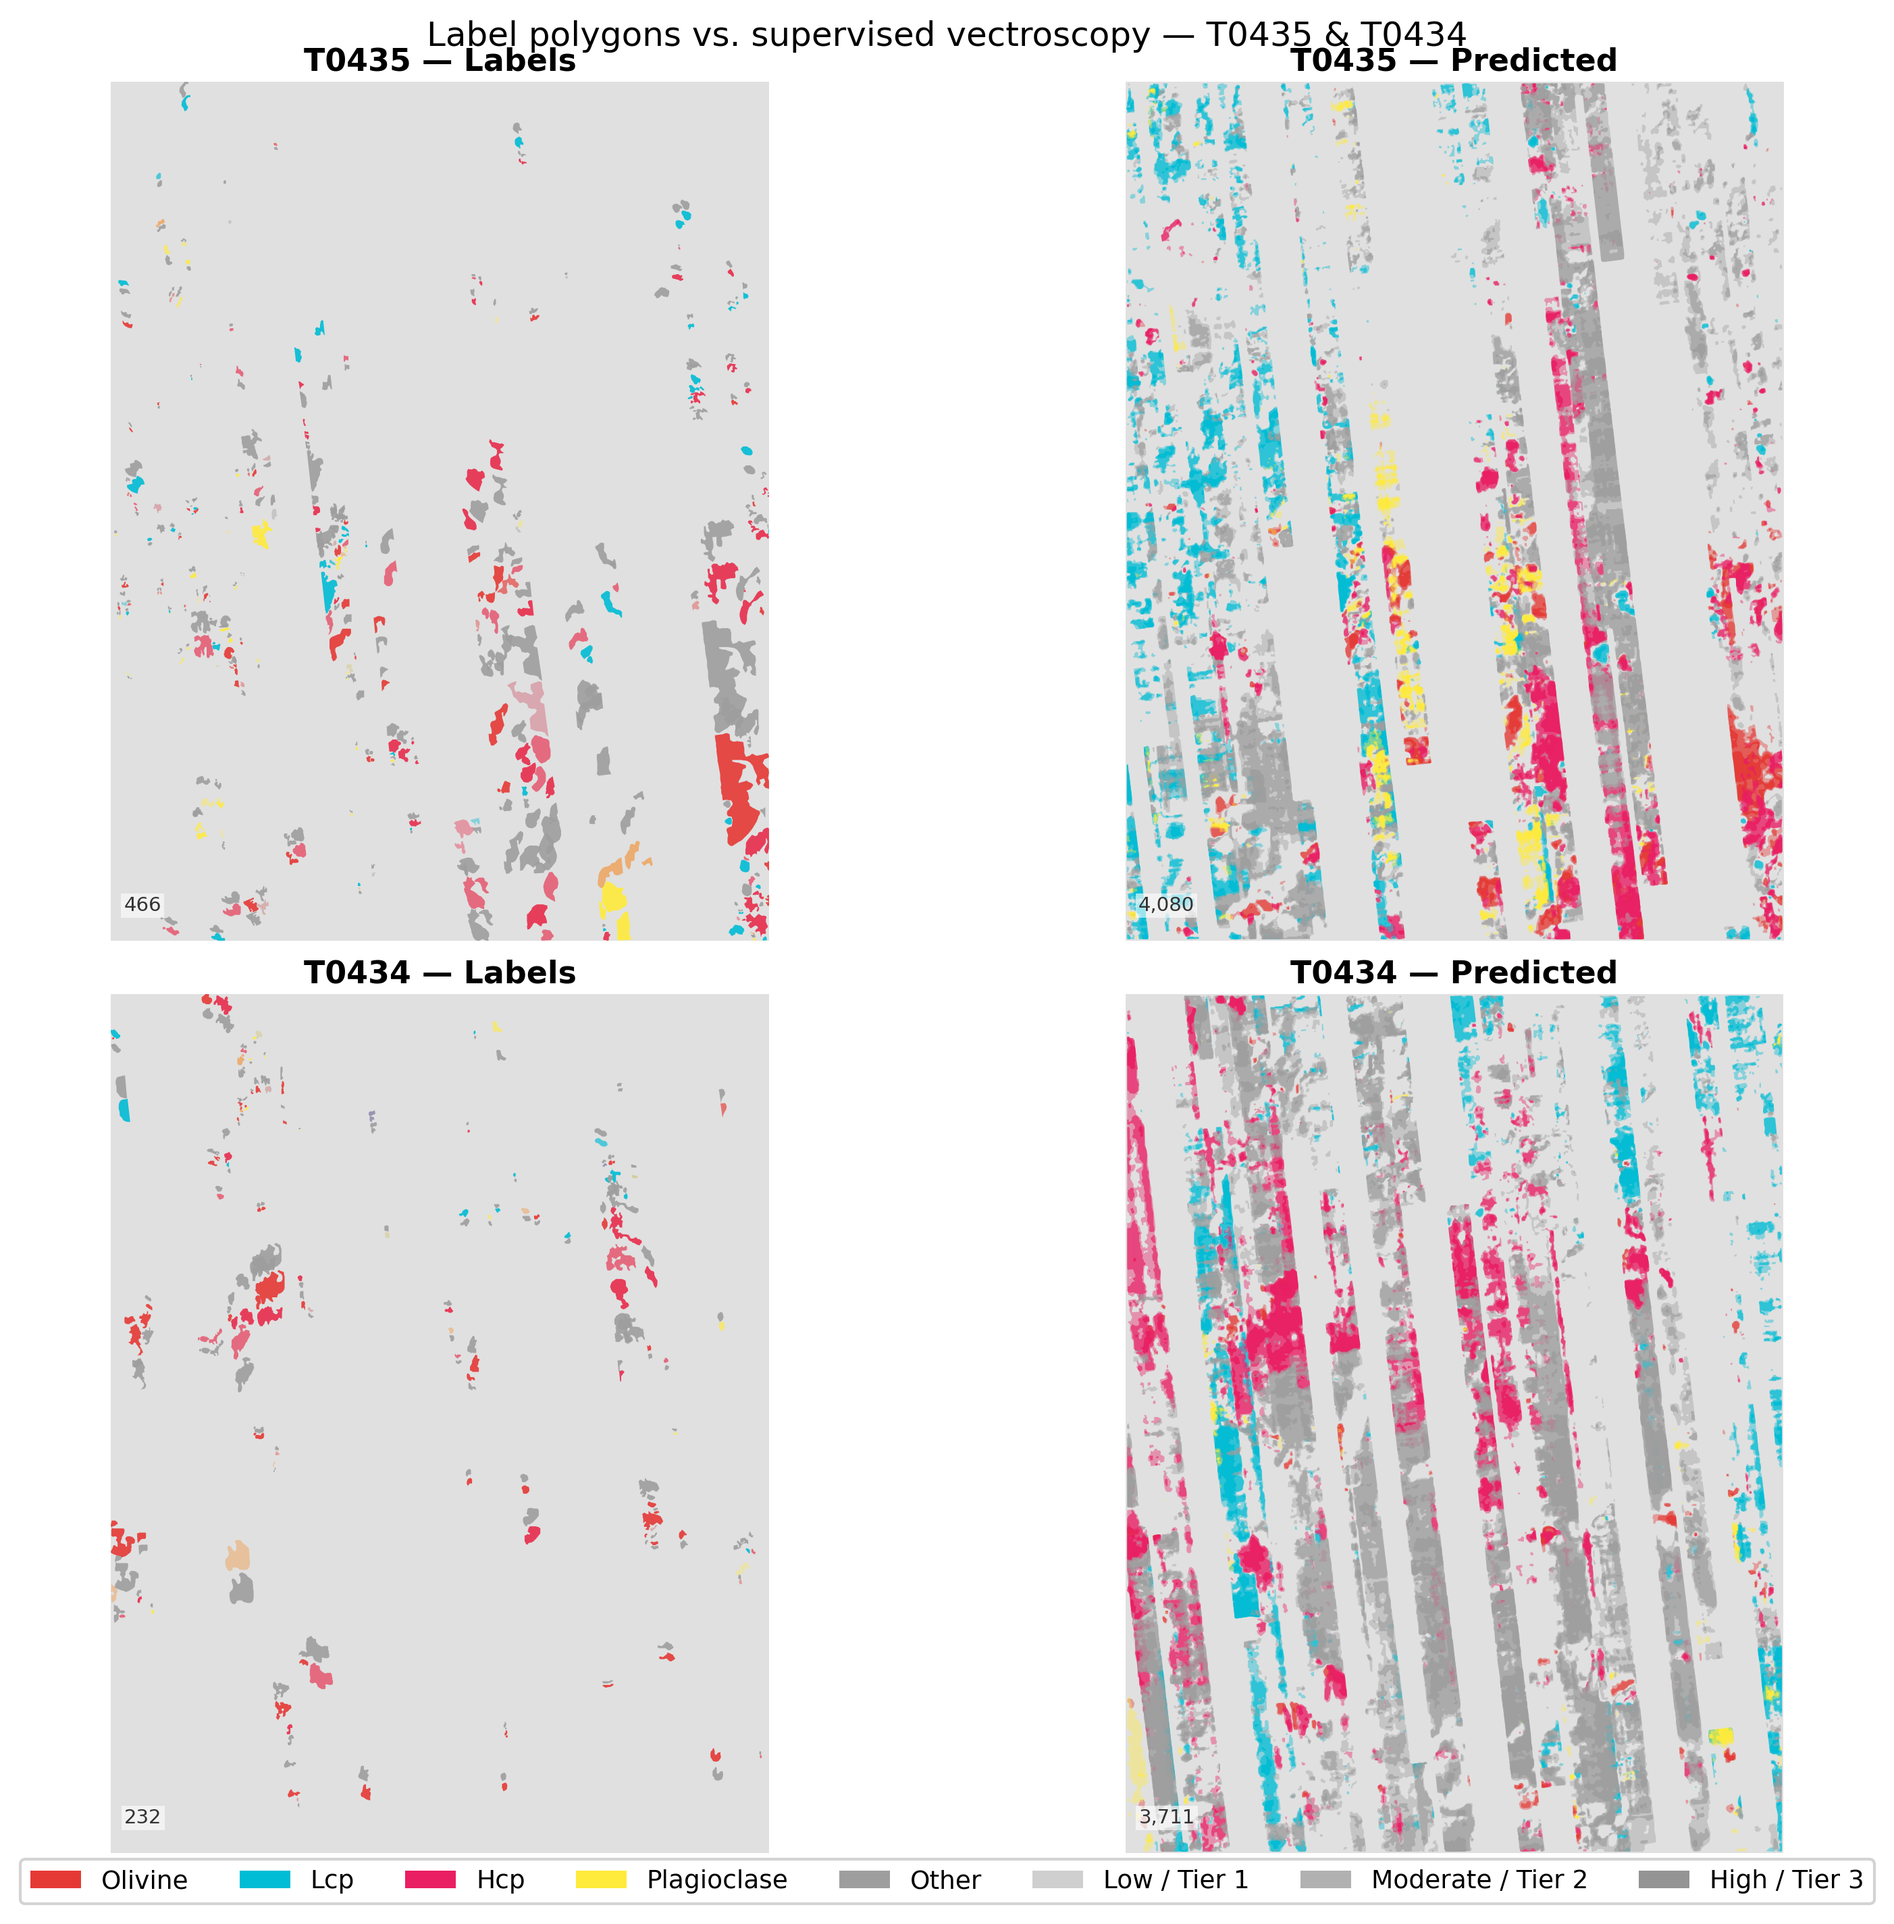
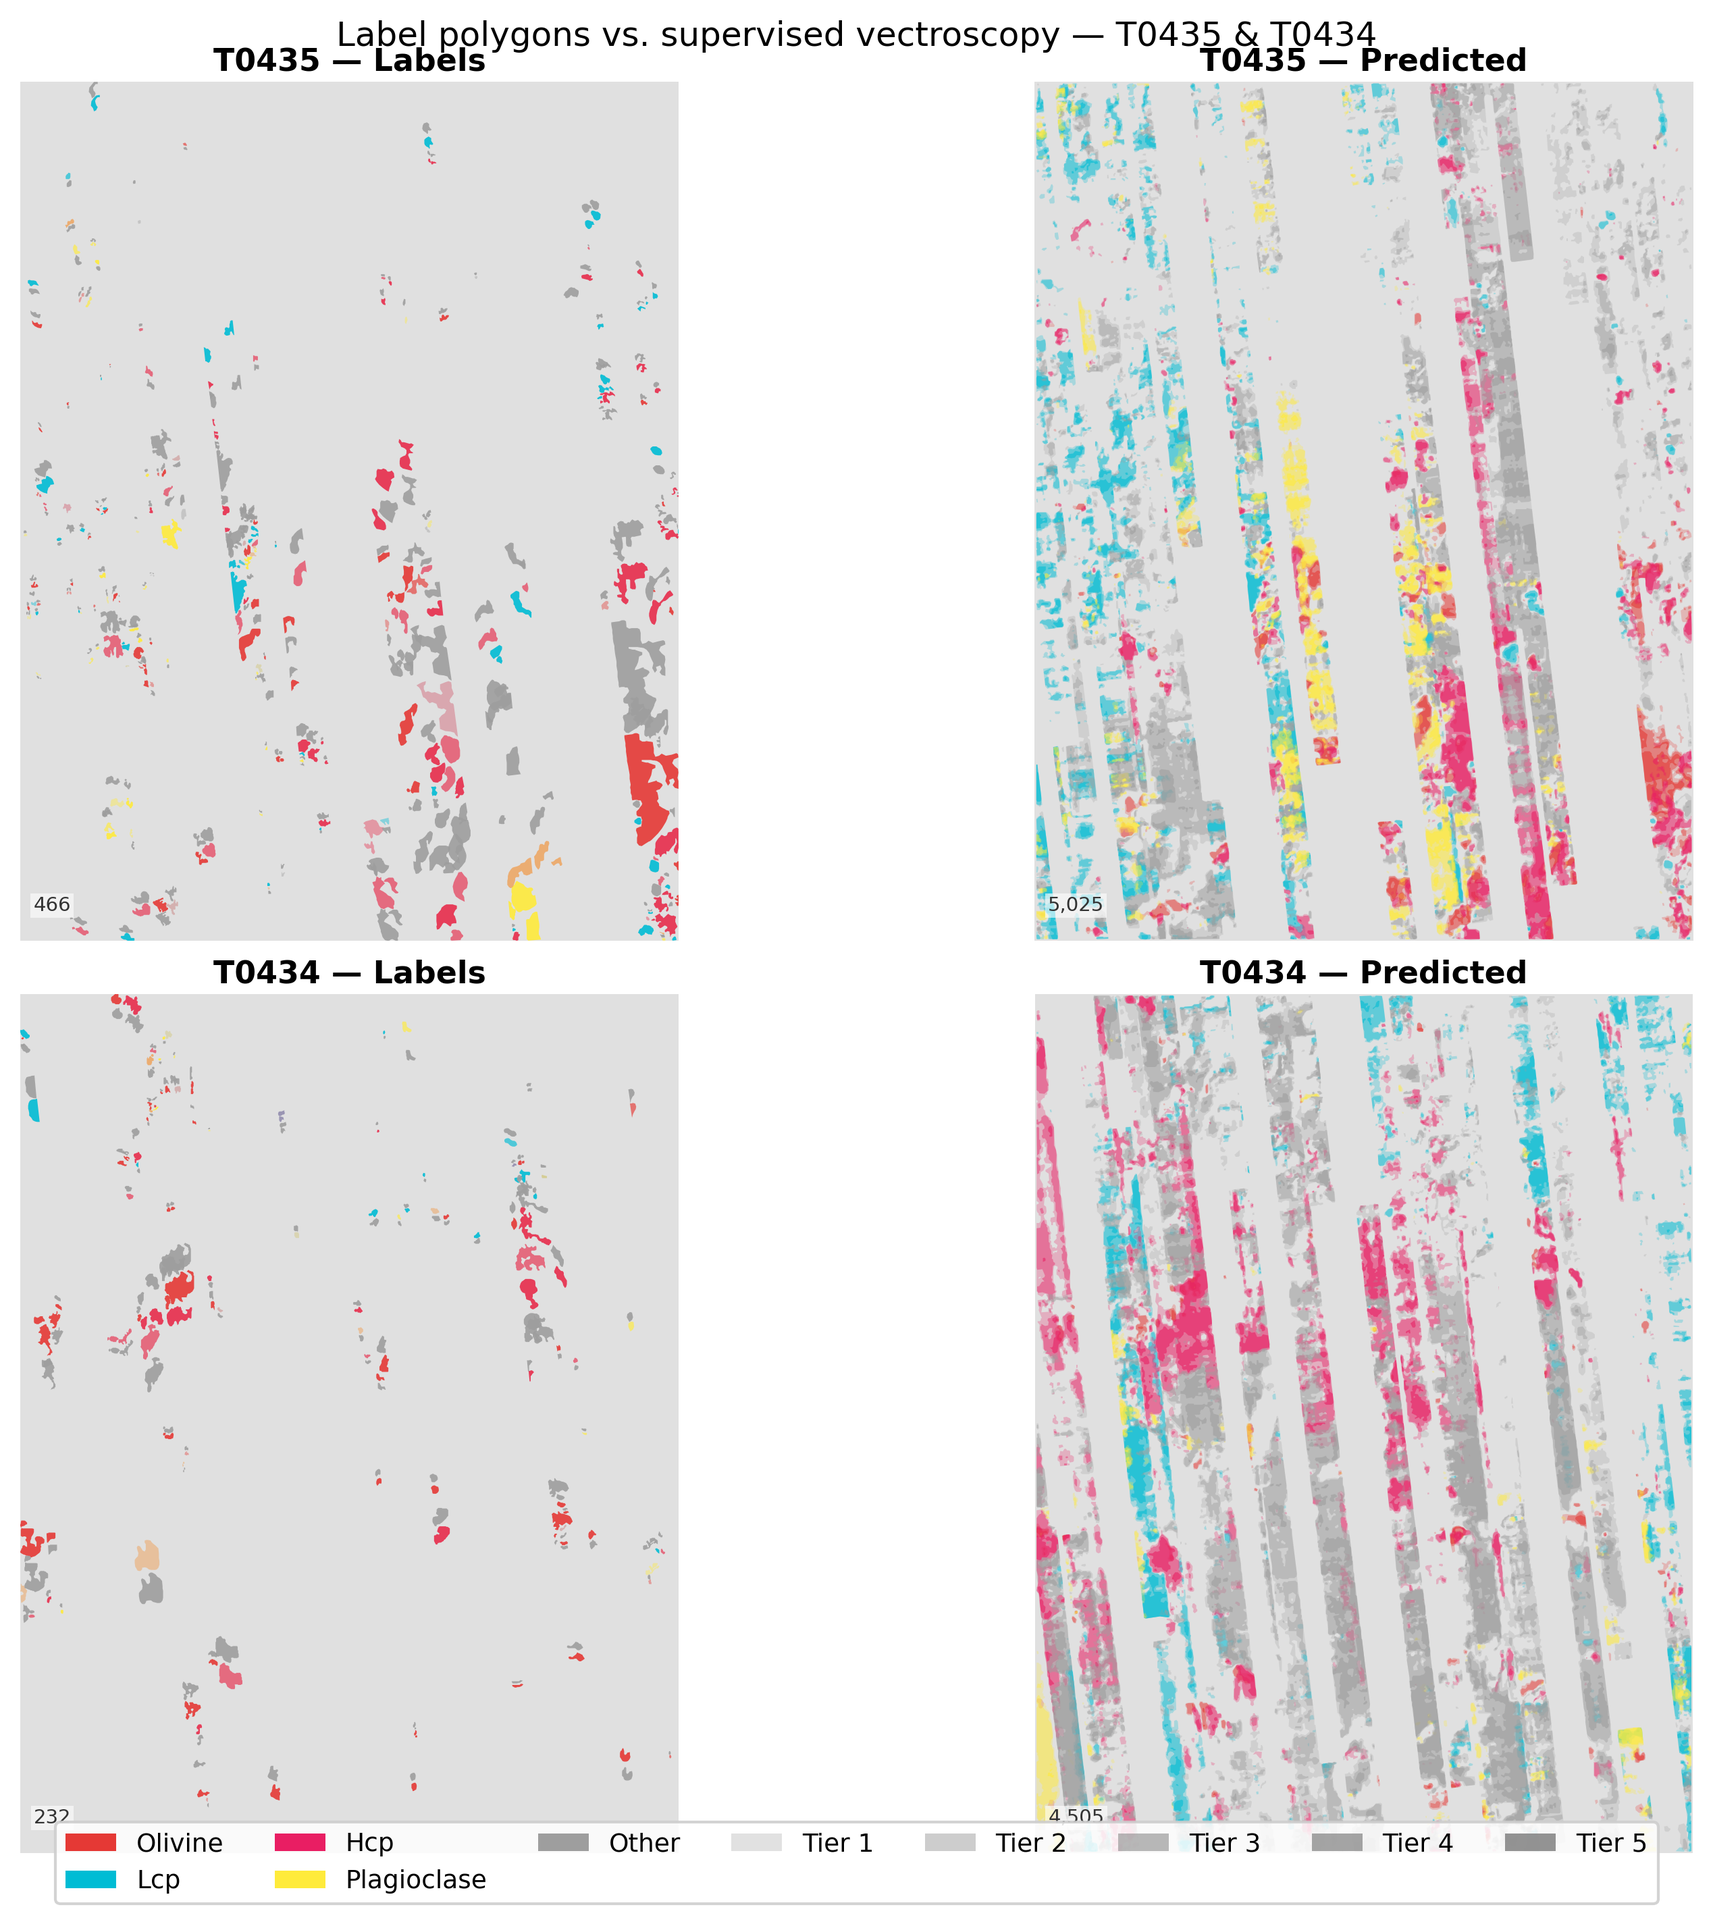
feat: expand confidence tiers from 3 to 5 (p50/p67/p90/p95/p99)
The top tier is split: p90→p95→p99 become tiers 3, 4, 5.  All tiers
use the Otsu signal-distribution approach; thresholds recomputed for
all 5 classes on the calibration tiles.

Changes:
- compute_global_thresholds.py: otsu path now emits [p50,p67,p90,p95,p99]
- vectorize_tile_minerals.py: dynamic N-tier unpack/print; docstring updated
- TIER_ALPHA updated to 5 levels (0.25/0.42/0.58/0.75/0.90) in map scripts
- TIER_COLORS/LABELS expanded to 5 in spectral plot scripts
- config/vectroscopy_thresholds_pca95.json: 5-value arrays per class
- All 6 tiles re-vectorized; all 4 figures regenerated
- Tests updated for 5-tier assertions

diff --git a/scripts/vectorize_tile_minerals.py b/scripts/vectorize_tile_minerals.py
@@ -6,7 +6,7 @@ applies global percentile thresholds from compute_global_thresholds.py, and writ
 a GeoPackage with one layer per mineral class (olivine, lcp, hcp, plagioclase).
 
 Each polygon carries:
-  confidence (int 1-3): model-driven tier (1=low/33rd pctile, 2=medium/67th, 3=high/90th)
+  confidence (int 1-5): model-driven tier (1=p50, 2=p67, 3=p90, 4=p95, 5=p99 of above-Otsu signal)
   mineral (str): class name
   threshold (float): lower probability bound for this polygon's tier
   mean_prob, std_prob, min_prob, max_prob, median_prob: zonal statistics
@@ -294,15 +294,16 @@ def main():
     os.makedirs(os.path.dirname(os.path.abspath(args.out)), exist_ok=True)
 
     for ci, mineral in enumerate(CLASS_NAMES):
-        t1, t2, t3 = thresholds_cfg[mineral]
-        print(f'Vectorizing {mineral} (thresholds: {t1:.4f}/{t2:.4f}/{t3:.4f})...')
+        tiers = thresholds_cfg[mineral]
+        tier_str = '/'.join(f'{t:.4f}' for t in tiers)
+        print(f'Vectorizing {mineral} (thresholds: {tier_str})...')
 
         prob_2d = probs[:, :, ci].copy().astype(np.float32)
 
         gdf = vectorize_mineral(
             prob_2d=prob_2d,
             valid_mask=valid_mask,
-            thresholds=[t1, t2, t3],
+            thresholds=tiers,
             mineral=mineral,
             input_crs=input_crs,
             input_transform=input_transform,
@@ -311,13 +312,14 @@ def main():
         )
 
         if gdf.empty:
-            print(f'  {mineral}: no polygons detected above threshold {t1:.4f}')
+            print(f'  {mineral}: no polygons detected above threshold {tiers[0]:.4f}')
             continue
 
-        print(f'  {mineral}: {len(gdf)} polygons '
-              f'(tier 1: {(gdf["confidence"]==1).sum()}, '
-              f'tier 2: {(gdf["confidence"]==2).sum()}, '
-              f'tier 3: {(gdf["confidence"]==3).sum()})')
+        tier_counts = '  '.join(
+            f'tier {i+1}: {(gdf["confidence"]==i+1).sum()}'
+            for i in range(len(tiers))
+        )
+        print(f'  {mineral}: {len(gdf)} polygons  ({tier_counts})')
 
         gdf.to_file(args.out, layer=mineral, driver='GPKG')
 

diff --git a/scripts/compute_global_thresholds.py b/scripts/compute_global_thresholds.py
@@ -56,14 +56,14 @@ def compute_otsu_thresholds(pooled: Dict[int, np.ndarray],
 
     Steps:
       1. Otsu's threshold splits noise vs. signal pixels.
-      2. p50 / p67 / p90 of above-Otsu pixels become tier 1 / 2 / 3 thresholds.
+      2. p50 / p67 / p90 / p95 / p99 of above-Otsu pixels become tier 1–5 thresholds.
 
     Args:
         pooled: dict from pool_valid_probs()
         class_names: list of class name strings in class-index order
 
     Returns:
-        thresholds: dict name → [p50_signal, p67_signal, p90_signal]
+        thresholds: dict name → [p50, p67, p90, p95, p99] signal percentile values
         otsu_values: dict name → float (Otsu split, stored for diagnostics)
     """
     thresholds = {}
@@ -74,7 +74,7 @@ def compute_otsu_thresholds(pooled: Dict[int, np.ndarray],
         signal = vals[vals > otsu]
         if len(signal) == 0:
             signal = vals          # degenerate fallback
-        t = [float(np.percentile(signal, p)) for p in [50, 67, 90]]
+        t = [float(np.percentile(signal, p)) for p in [50, 67, 90, 95, 99]]
         thresholds[name] = t
         otsu_values[name] = otsu
         n_sig = len(signal)
@@ -158,10 +158,10 @@ def main():
     tiles_used = [_npz_to_tile_id(p) for p in args.probs]
 
     if args.otsu:
-        print('Computing Otsu + signal-distribution (p50/p67/p90) thresholds per class:')
+        print('Computing Otsu + signal-distribution (p50/p67/p90/p95/p99) thresholds per class:')
         thresholds, otsu_vals = compute_otsu_thresholds(pooled, CLASS_NAMES)
         write_thresholds_json(args.out, thresholds, tiles_used,
-                              [50, 67, 90], DEFAULT_MORPHOLOGY,
+                              [50, 67, 90, 95, 99], DEFAULT_MORPHOLOGY,
                               otsu_thresholds=otsu_vals)
     else:
         print(f'Computing {args.percentiles} percentile thresholds per class:')

diff --git a/scripts/plot_mineral_spectra.py b/scripts/plot_mineral_spectra.py
@@ -42,9 +42,9 @@ TILES = [
 ]
 
 CLASS_NAMES = ['olivine', 'lcp', 'hcp', 'plagioclase', 'other']
-TIERS = [1, 2, 3]
-TIER_COLORS = ['#43a047', '#fb8c00', '#e53935']   # tier 1 / 2 / 3
-TIER_LABELS = ['Tier 1', 'Tier 2', 'Tier 3']
+TIERS = [1, 2, 3, 4, 5]
+TIER_COLORS = ['#81c784', '#43a047', '#fb8c00', '#e53935', '#c62828']  # tier 1–5
+TIER_LABELS = ['Tier 1', 'Tier 2', 'Tier 3', 'Tier 4', 'Tier 5']
 CRISM_NODATA = 65535.0
 MAX_PIXELS_PER_CLASS_TIER = 10_000   # cap to keep memory bounded
 BAD_BAND_RANGES = [(1000, 1100)]     # nm — detector gap / order-sorting artefact
@@ -202,8 +202,8 @@ def main():
 
     print('Pixel counts per mineral / tier:')
     for mineral in CLASS_NAMES:
-        counts = [spectra[mineral][t].shape[0] for t in TIERS]
-        print(f'  {mineral}: tier1={counts[0]:,}  tier2={counts[1]:,}  tier3={counts[2]:,}')
+        parts = '  '.join(f'tier{t}={spectra[mineral][t].shape[0]:,}' for t in TIERS)
+        print(f'  {mineral}: {parts}')
 
     fig, axes = plt.subplots(5, 2, figsize=(13, 17), constrained_layout=True)
     fig.suptitle(

diff --git a/tests/test_compute_global_thresholds.py b/tests/test_compute_global_thresholds.py
@@ -122,12 +122,12 @@ def test_compute_otsu_thresholds_bimodal():
 
     # Otsu should land somewhere between the two modes (noise ~0.05, signal ~0.70)
     assert 0.06 < otsu_vals['olivine'] < 0.60
-    # All three tier thresholds must be above the Otsu split
+    # All 5 tier thresholds must be above the Otsu split
+    assert len(thresholds['olivine']) == 5
     for t in thresholds['olivine']:
         assert t > otsu_vals['olivine']
     # Tiers must be non-decreasing
-    t1, t2, t3 = thresholds['olivine']
-    assert t1 <= t2 <= t3
+    assert thresholds['olivine'] == sorted(thresholds['olivine'])
 
 
 def test_compute_otsu_thresholds_signal_percentiles():
@@ -146,5 +146,5 @@ def test_compute_otsu_thresholds_signal_percentiles():
 
     otsu = otsu_vals['olivine']
     signal_pixels = vals[vals > otsu]
-    expected = [float(np.percentile(signal_pixels, p)) for p in [50, 67, 90]]
+    expected = [float(np.percentile(signal_pixels, p)) for p in [50, 67, 90, 95, 99]]
     np.testing.assert_allclose(thresholds['olivine'], expected, rtol=1e-5)

diff --git a/scripts/plot_labels_vs_predicted.py b/scripts/plot_labels_vs_predicted.py
@@ -52,7 +52,7 @@ TILES = [
 ]
 
 MINERALS = ['olivine', 'lcp', 'hcp', 'plagioclase', 'other']
-TIER_ALPHA = {1: 0.40, 2: 0.65, 3: 0.90}
+TIER_ALPHA = {1: 0.25, 2: 0.42, 3: 0.58, 4: 0.75, 5: 0.90}
 LABEL_TIER_ALPHA = {'Low': 0.40, 'Moderate': 0.65, 'High': 0.90}
 
 # Canonical token mapping (lowercase keys)
@@ -200,9 +200,8 @@ def main():
     ]
     # Confidence tier legend
     tier_handles = [
-        mpatches.Patch(facecolor='#888888', alpha=TIER_ALPHA[1], label='Low / Tier 1'),
-        mpatches.Patch(facecolor='#888888', alpha=TIER_ALPHA[2], label='Moderate / Tier 2'),
-        mpatches.Patch(facecolor='#888888', alpha=TIER_ALPHA[3], label='High / Tier 3'),
+        mpatches.Patch(facecolor='#888888', alpha=TIER_ALPHA[t], label=f'Tier {t}')
+        for t in sorted(TIER_ALPHA)
     ]
     fig.legend(handles=mineral_handles + tier_handles,
                loc='lower center', ncol=8, fontsize=9,

diff --git a/scripts/plot_nili_map.py b/scripts/plot_nili_map.py
@@ -58,7 +58,7 @@ GRID = [
 ]
 
 MINERALS = ['olivine', 'lcp', 'hcp', 'plagioclase', 'other']
-TIER_ALPHA = {1: 0.40, 2: 0.65, 3: 0.90}
+TIER_ALPHA = {1: 0.25, 2: 0.42, 3: 0.58, 4: 0.75, 5: 0.90}
 
 
 def main():
@@ -78,9 +78,8 @@ def main():
         for m in MINERALS
     ]
     tier_handles = [
-        mpatches.Patch(facecolor='#888888', alpha=TIER_ALPHA[1], label='Tier 1 (low)'),
-        mpatches.Patch(facecolor='#888888', alpha=TIER_ALPHA[2], label='Tier 2 (med)'),
-        mpatches.Patch(facecolor='#888888', alpha=TIER_ALPHA[3], label='Tier 3 (high)'),
+        mpatches.Patch(facecolor='#888888', alpha=TIER_ALPHA[t], label=f'Tier {t}')
+        for t in sorted(TIER_ALPHA)
     ]
     fig.legend(handles=mineral_handles + tier_handles,
                loc='lower center', ncol=8, fontsize=9,

diff --git a/scripts/plot_nili_spectra.py b/scripts/plot_nili_spectra.py
@@ -69,8 +69,8 @@ def main():
 
     print('Pixel counts per mineral / tier:')
     for mineral in CLASS_NAMES:
-        counts = [spectra[mineral][t].shape[0] for t in TIERS]
-        print(f'  {mineral}: tier1={counts[0]:,}  tier2={counts[1]:,}  tier3={counts[2]:,}')
+        parts = '  '.join(f'tier{t}={spectra[mineral][t].shape[0]:,}' for t in TIERS)
+        print(f'  {mineral}: {parts}')
 
     fig, axes = plt.subplots(5, 2, figsize=(13, 17), constrained_layout=True)
     fig.suptitle(

diff --git a/scripts/plot_threshold_distributions.py b/scripts/plot_threshold_distributions.py
@@ -33,8 +33,8 @@ PROBS = [
     '/tmp/t0434_proto_pca95_probs.npz',
 ]
 CLASS_NAMES = ['olivine', 'lcp', 'hcp', 'plagioclase', 'other']
-SIGNAL_PERCENTILES = [50, 67, 90]
-TIER_COLORS = ['#43a047', '#fb8c00', '#e53935']   # tier 1 / 2 / 3
+SIGNAL_PERCENTILES = [50, 67, 90, 95, 99]
+TIER_COLORS = ['#81c784', '#43a047', '#fb8c00', '#e53935', '#c62828']  # tier 1–5
 
 
 def main():
